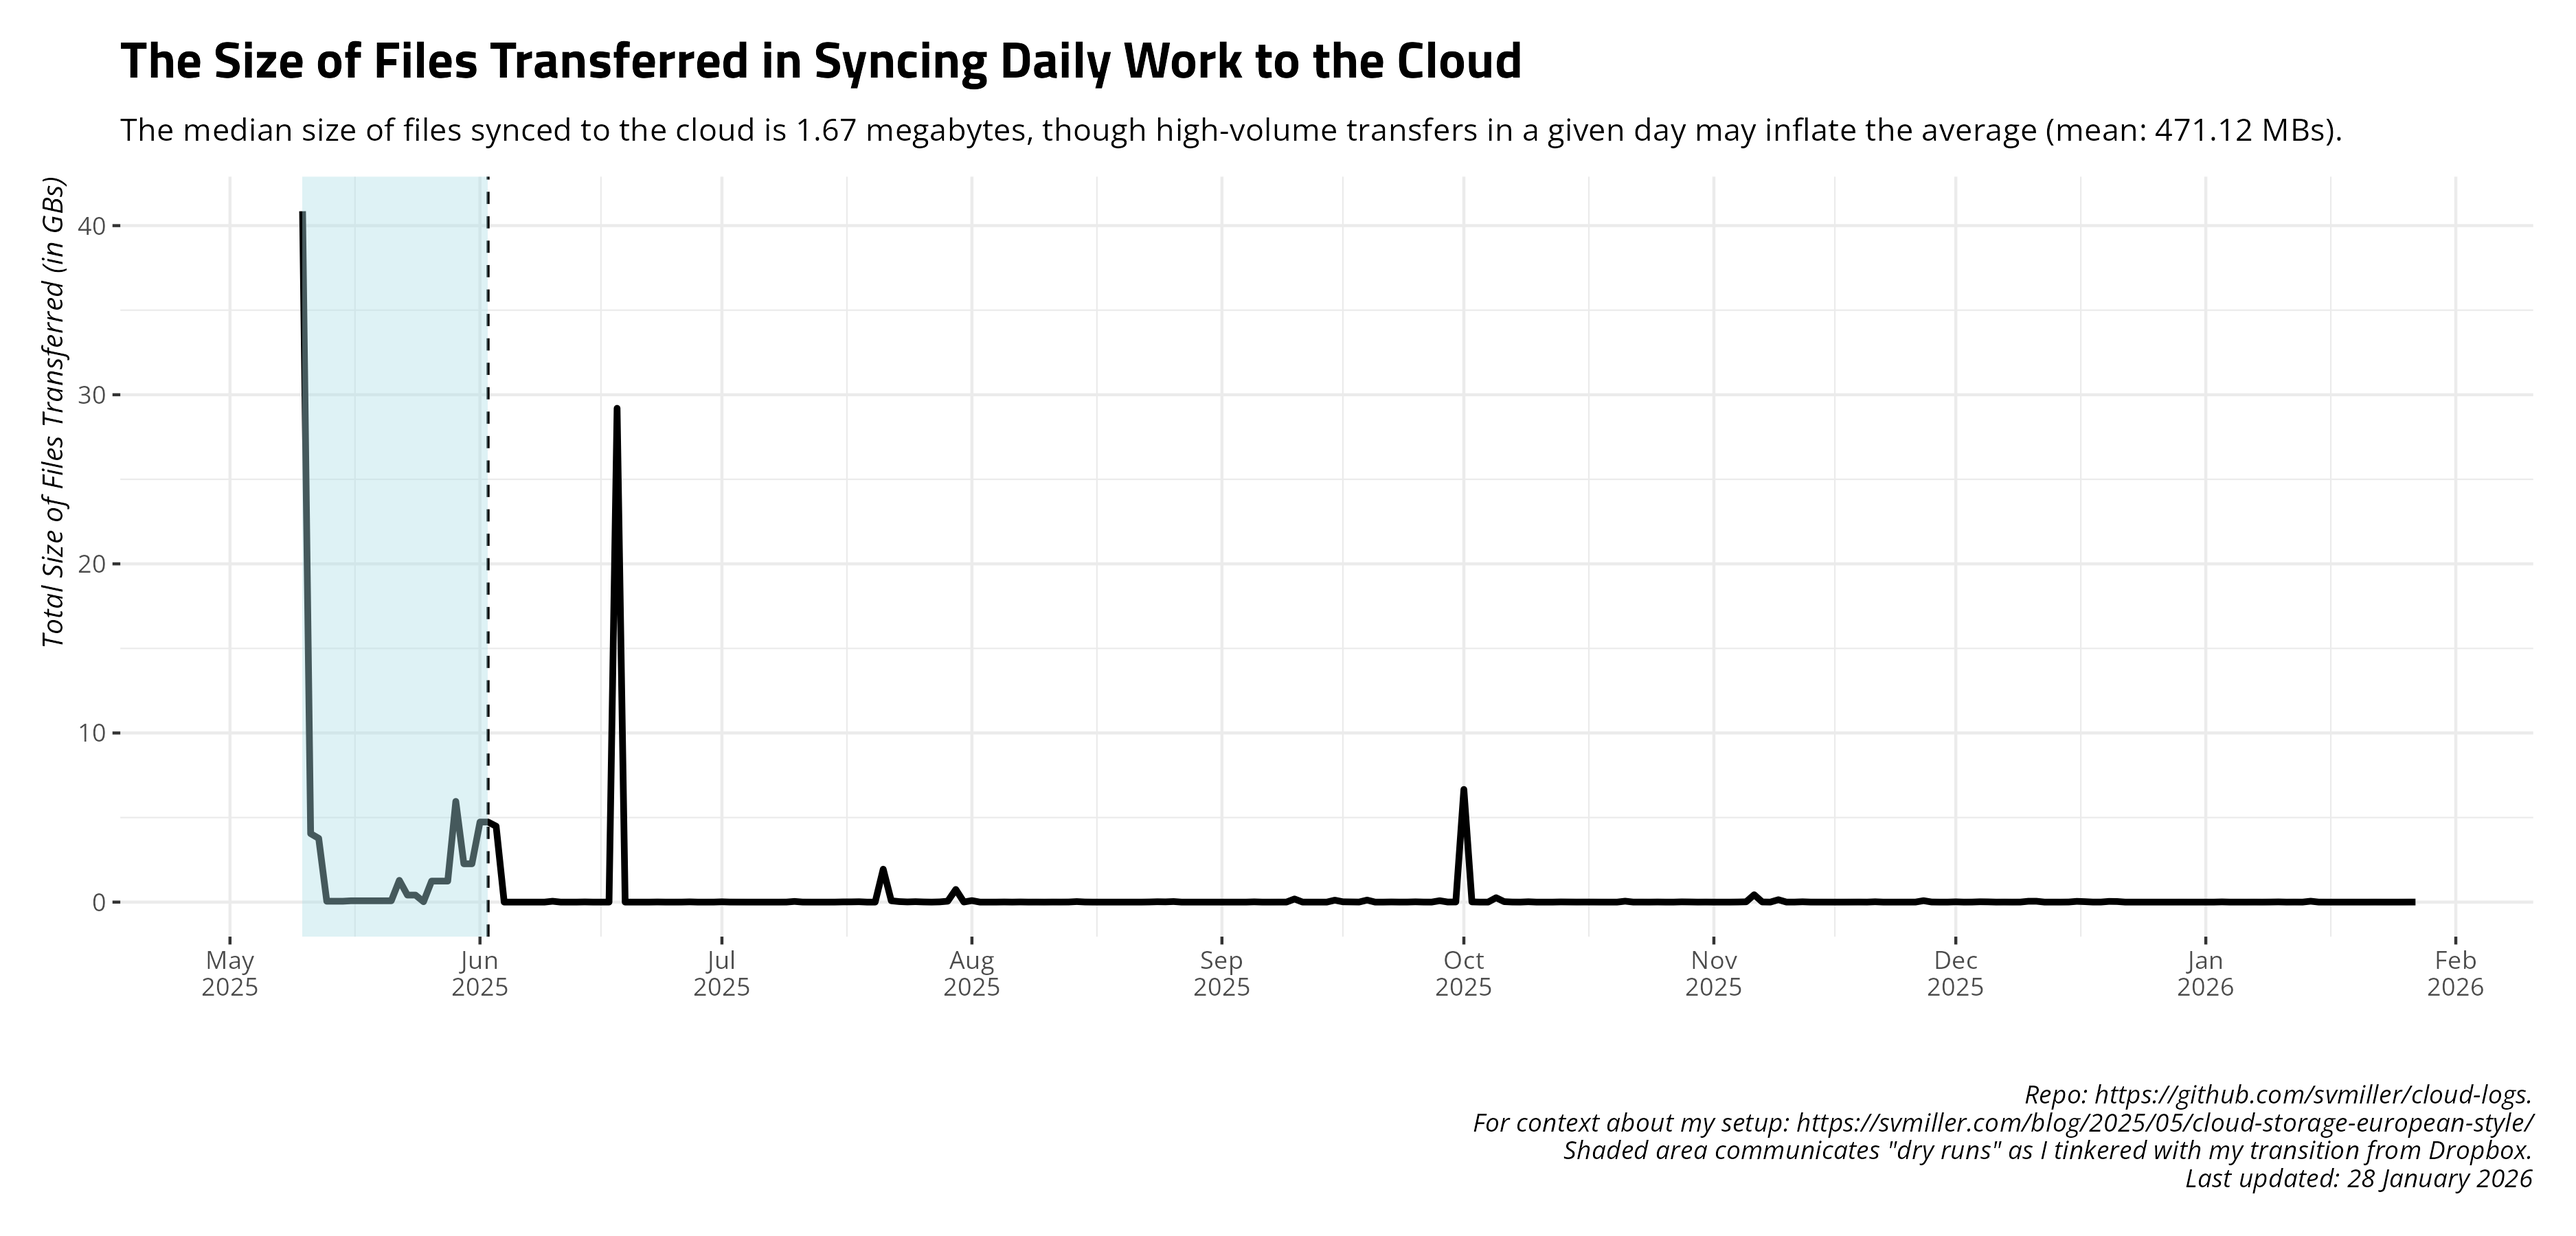
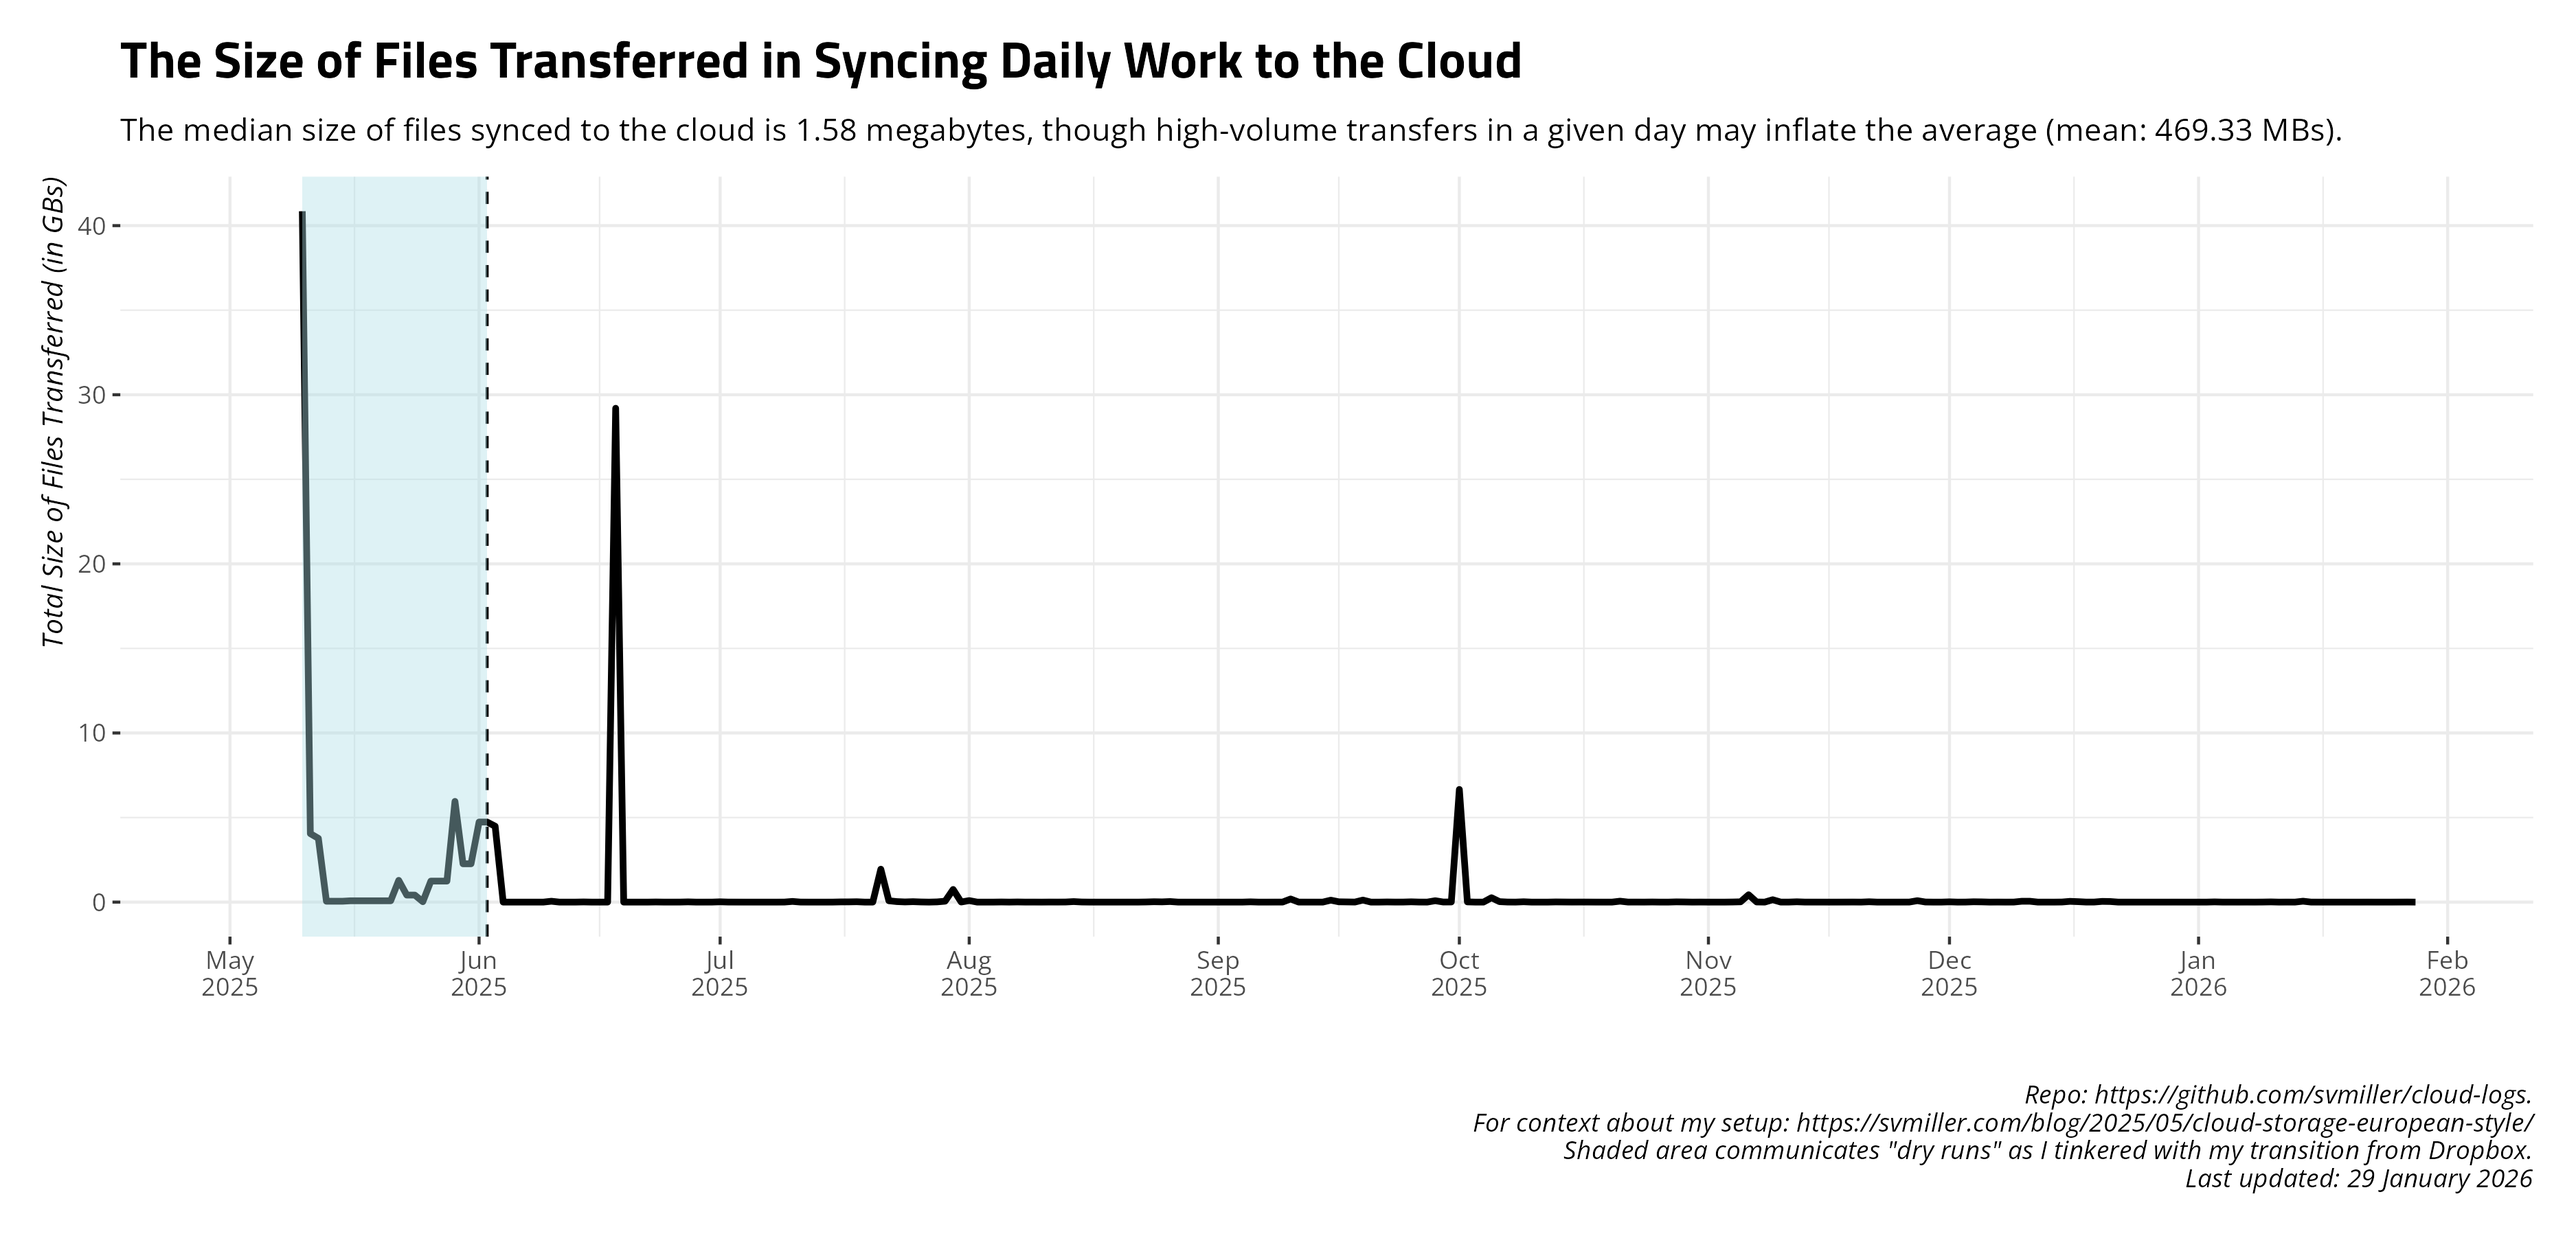
Date: 2026-01-29 09:00:21. Hi mom!

diff --git a/README.md b/README.md
@@ -27,17 +27,17 @@ and uploads to Github.
     #> # A tibble: 14 × 4
     #>    date       ftransfer stransfer   elapsed
     #>    <date>         <dbl> <chr>       <chr>  
-    #>  1 2026-01-14        67 54.182 MiB  4m36.0s
-    #>  2 2026-01-15        24 1.058 MiB   5m47.3s
-    #>  3 2026-01-16         0 <NA>        5m59.7s
-    #>  4 2026-01-17         0 <NA>        6m34.4s
-    #>  5 2026-01-18         0 <NA>        6m37.1s
-    #>  6 2026-01-19        22 306.049 KiB 6m14.4s
-    #>  7 2026-01-20         8 8.384 KiB   5m42.6s
-    #>  8 2026-01-21         0 <NA>        6m20.7s
-    #>  9 2026-01-22        19 1.012 MiB   6m3.9s 
-    #> 10 2026-01-23         0 <NA>        7m7.9s 
-    #> 11 2026-01-24         0 <NA>        6m51.3s
-    #> 12 2026-01-25        25 115.706 KiB 7m2.1s 
-    #> 13 2026-01-26        24 1.873 MiB   5m13.4s
-    #> 14 2026-01-27        39 3.662 MiB   4m55.8s
+    #>  1 2026-01-15        24 1.058 MiB   5m47.3s
+    #>  2 2026-01-16         0 <NA>        5m59.7s
+    #>  3 2026-01-17         0 <NA>        6m34.4s
+    #>  4 2026-01-18         0 <NA>        6m37.1s
+    #>  5 2026-01-19        22 306.049 KiB 6m14.4s
+    #>  6 2026-01-20         8 8.384 KiB   5m42.6s
+    #>  7 2026-01-21         0 <NA>        6m20.7s
+    #>  8 2026-01-22        19 1.012 MiB   6m3.9s 
+    #>  9 2026-01-23         0 <NA>        7m7.9s 
+    #> 10 2026-01-24         0 <NA>        6m51.3s
+    #> 11 2026-01-25        25 115.706 KiB 7m2.1s 
+    #> 12 2026-01-26        24 1.873 MiB   5m13.4s
+    #> 13 2026-01-27        39 3.662 MiB   4m55.8s
+    #> 14 2026-01-28         0 <NA>        5m54.8s
